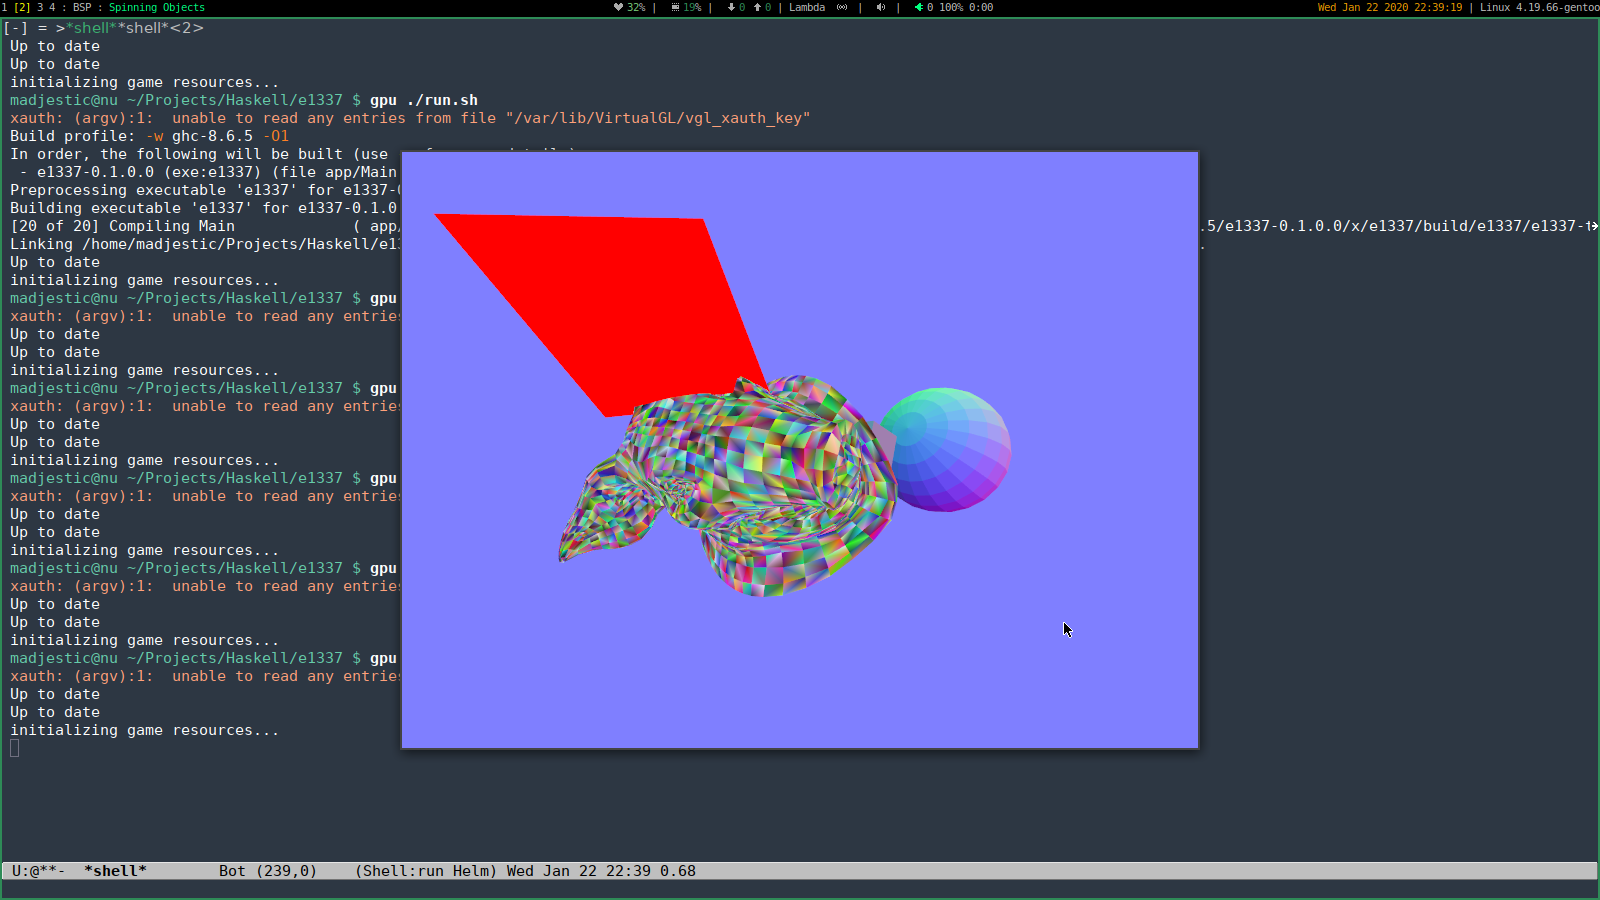
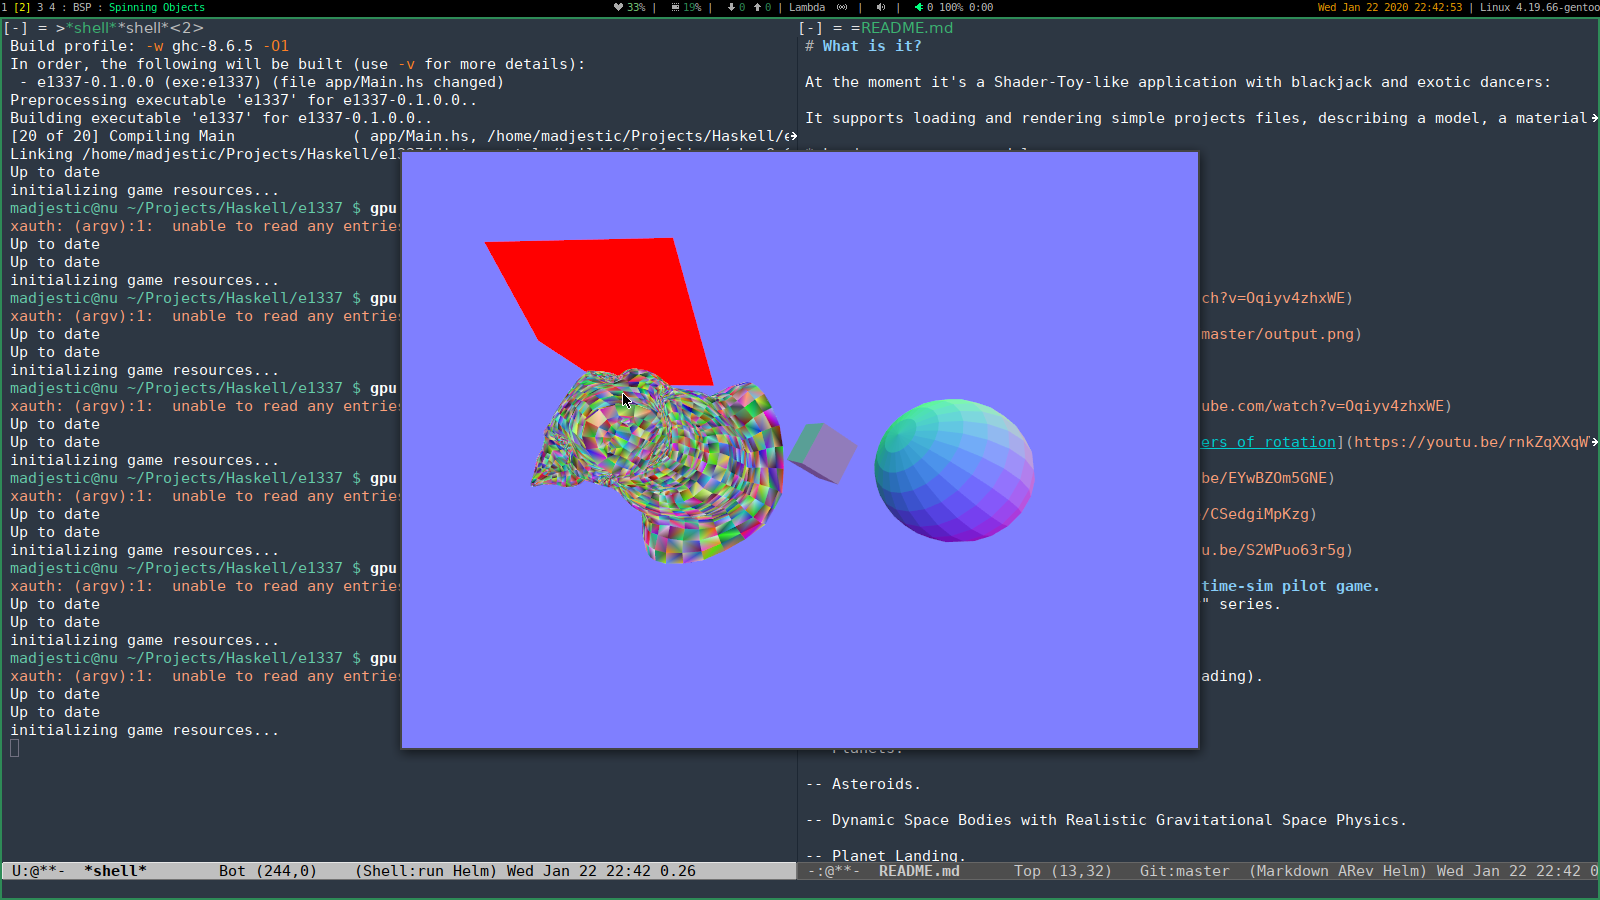
fixing picture

diff --git a/README.md b/README.md
@@ -9,6 +9,8 @@ It supports loading and rendering simple projects files, describing a model, a m
 * Applies a solver-controller per object.
 * Has a camera that supports user-input.
 * Renders a scene of objects.
+* Supports transformation stack per object.
+* Uses Houdini as a game-editor.
 
 [a youtube demo](https://www.youtube.com/watch?v=Oqiyv4zhxWE)
 
